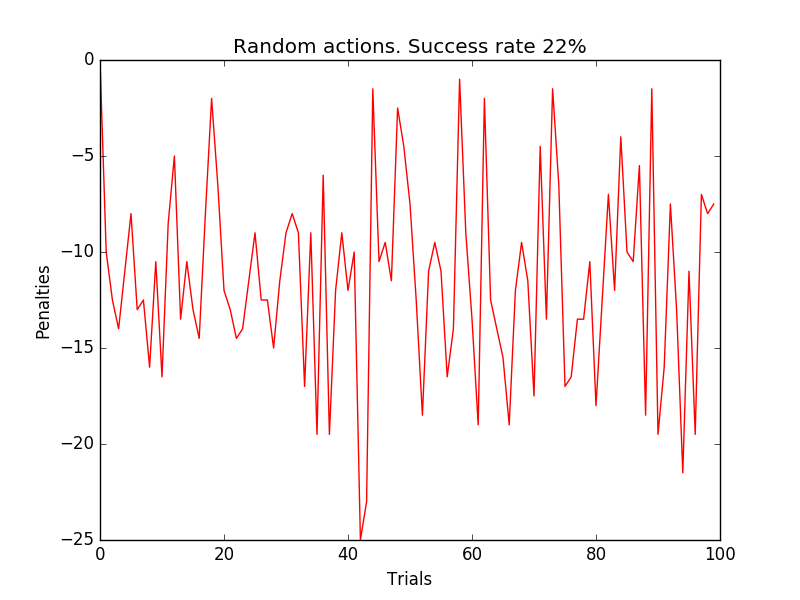
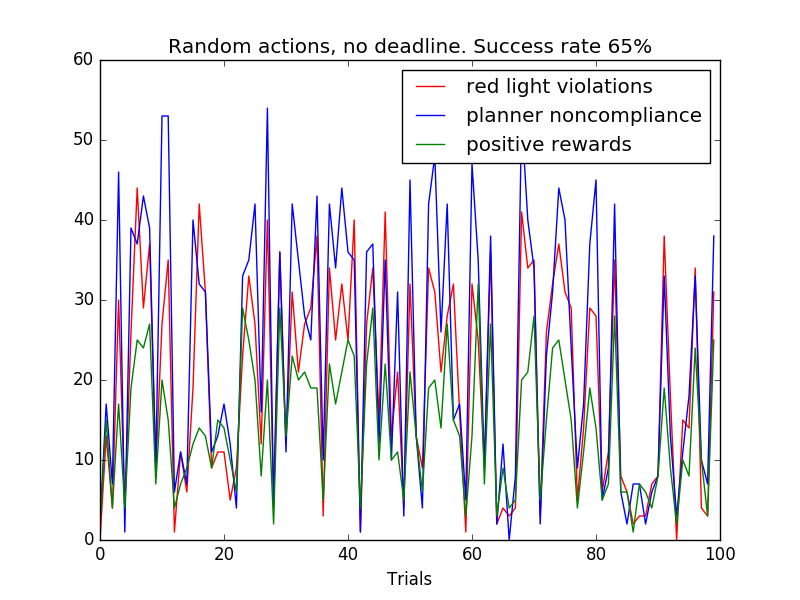
random action, no deadline, tracking penalties and rewards

diff --git a/smartcab/smartcab/agent.py b/smartcab/smartcab/agent.py
@@ -12,16 +12,19 @@ class LearningAgent(Agent):
         self.planner = RoutePlanner(self.env, self)  # simple route planner to get next_waypoint
         # TODO: Initialize any additional variables here
         self.success = 0
-        self.penalties = []
-        self.penalties_per_trial = 0
+        self.red_light_violations = []
+        self.planner_noncompliance = []
+        self.positive_rewards = []
         
 
     def reset(self, destination=None):
         self.planner.route_to(destination)
         # TODO: Prepare for a new trip; reset any variables here, if required
-        print "penalty per trial", self.penalties_per_trial
-        self.penalties.append(self.penalties_per_trial)
-        self.penalties_per_trial = 0 
+       
+        self.red_light_violations.append(0)
+        self.planner_noncompliance.append(0)
+        self.positive_rewards.append(0)
+
 
     def update(self, t):
         # Gather inputs
@@ -36,17 +39,20 @@ class LearningAgent(Agent):
 
         # Execute action and get reward
         reward = self.env.act(self, action)
-        if reward < 0:
-            #self.total_penalties += reward
-            self.penalties_per_trial += reward
+        if reward == -1.0:
+            self.red_light_violations[len(self.red_light_violations) - 1] += 1
+        elif reward == -0.5:
+            self.planner_noncompliance[len(self.planner_noncompliance) - 1] += 1
+        elif reward > 0:
+            self.positive_rewards[len(self.positive_rewards) - 1] += 1
 
 
         # TODO: Learn policy based on state, action, reward
 
         #print "LearningAgent.update(): deadline = {}, inputs = {}, action = {}, reward = {}".format(deadline, inputs, action, reward)  # [debug]
-        if self.planner.next_waypoint() == None:
-            print "Next waypoint:",  "reward: ", reward
-            self.success += 1
+ 
+        if self.planner.next_waypoint() == None :
+             self.success += 1
 
 
 def run():
@@ -55,7 +61,7 @@ def run():
     # Set up environment and agent
     e = Environment()  # create environment (also adds some dummy traffic)
     a = e.create_agent(LearningAgent)  # create agent
-    e.set_primary_agent(a, enforce_deadline=True)  # specify agent to track
+    e.set_primary_agent(a, enforce_deadline=False)  # specify agent to track
     # NOTE: You can set enforce_deadline=False while debugging to allow longer trials
 
     # Now simulate it
@@ -67,10 +73,13 @@ def run():
     print "Success: ", a.success
 
     import matplotlib.pyplot as plt
-    plt.plot(a.penalties, color='r')
+    plt.plot(a.red_light_violations, label='red light violations', color='r')
+    plt.plot(a.planner_noncompliance, label = 'planner noncompliance', color='b')
+    plt.plot(a.positive_rewards, color='g', label = 'positive rewards')
+    plt.legend()
     plt.xlabel('Trials')
-    plt.ylabel('Penalties')
-    plt.title('Random actions. Success rate %d%%' % a.success)
+    
+    plt.title('Random actions, no deadline. Success rate %d%%' % a.success)
     #plt.show()
     plt.savefig('radomAction.png')
 
